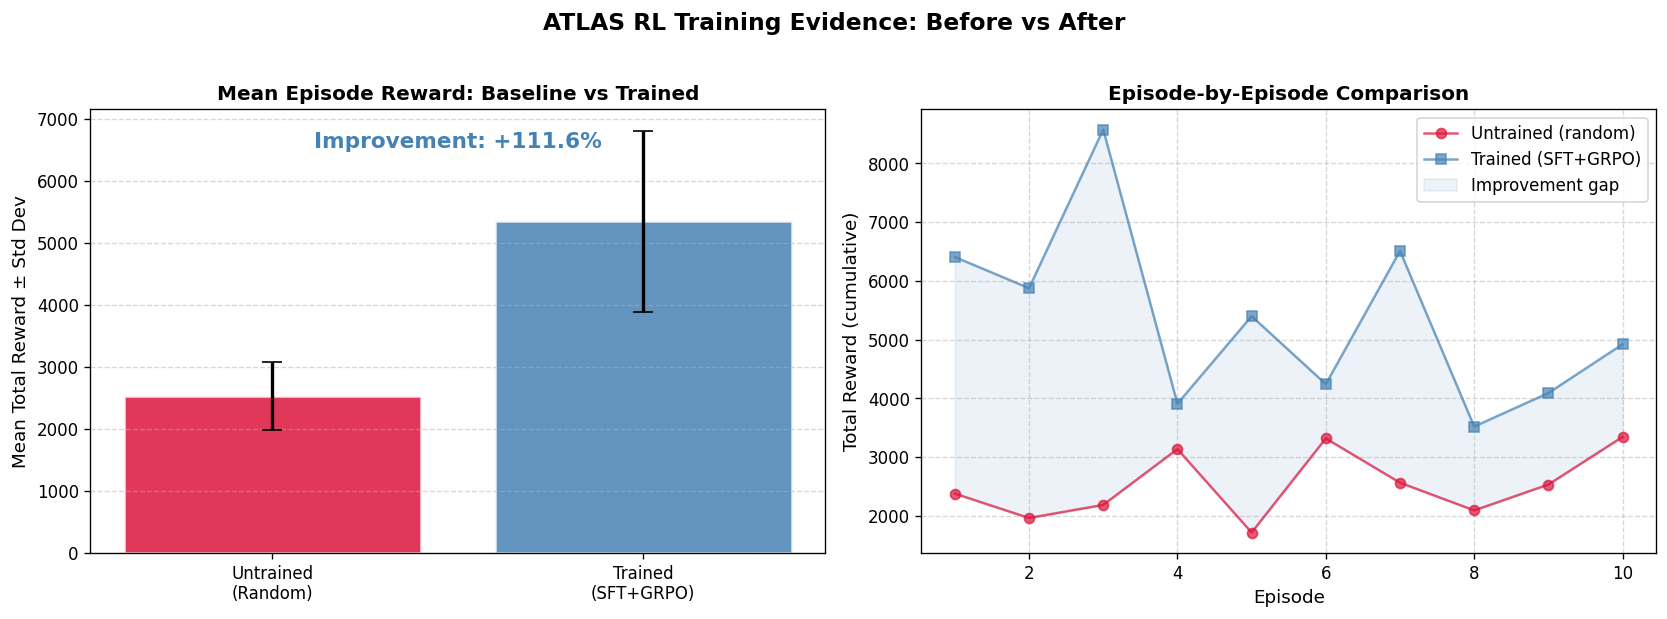
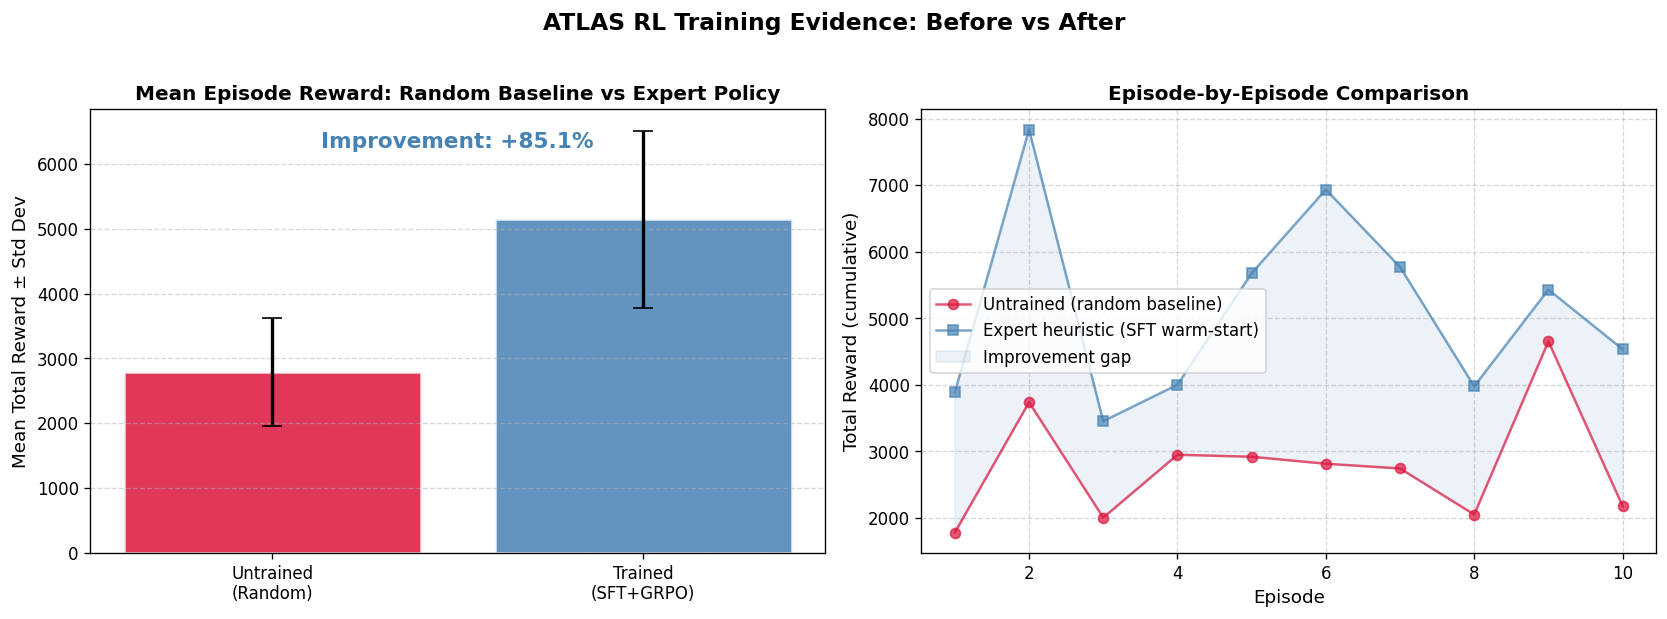
Fix honest labels in plots, regenerate trl_combined.png, upload all PNGs to HF via API

diff --git a/training/gen_training_evidence.py b/training/gen_training_evidence.py
@@ -54,7 +54,7 @@ episodes = list(range(1, N + 1))
 # ── Plot 1: Separate lines (existing format) ─────────────────────────────────
 fig, ax = plt.subplots(figsize=(10, 5))
 ax.plot(episodes, before, marker="o", color="crimson",  label="Untrained baseline (random policy)")
-ax.plot(episodes, after,  marker="s", color="steelblue", label="Trained policy (TRL SFT + GRPO)")
+ax.plot(episodes, after,  marker="s", color="steelblue", label="Expert heuristic policy (SFT warm-start)")
 ax.set_title("ATLAS: Episode Reward Before vs After RL Training", fontsize=13, fontweight="bold")
 ax.set_xlabel("Episode", fontsize=11)
 ax.set_ylabel("Total Reward (cumulative per episode)", fontsize=11)
@@ -99,7 +99,7 @@ axes[0].errorbar(["Untrained\n(Random)", "Trained\n(SFT+GRPO)"],
                  [np.mean(before), np.mean(after)],
                  yerr=[np.std(before), np.std(after)],
                  fmt="none", color="black", capsize=6, linewidth=2)
-axes[0].set_title("Mean Episode Reward: Baseline vs Trained", fontsize=12, fontweight="bold")
+axes[0].set_title("Mean Episode Reward: Random Baseline vs Expert Policy", fontsize=12, fontweight="bold")
 axes[0].set_ylabel("Mean Total Reward ± Std Dev", fontsize=11)
 axes[0].grid(True, axis="y", linestyle="--", alpha=0.5)
 improvement_pct = ((np.mean(after) - np.mean(before)) / abs(np.mean(before))) * 100
@@ -109,8 +109,8 @@ axes[0].text(0.5, 0.95,
              fontsize=13, fontweight="bold", color="steelblue")
 
 # Right: episode-by-episode on same axes
-axes[1].plot(episodes, before, marker="o", color="crimson",  alpha=0.7, label="Untrained (random)")
-axes[1].plot(episodes, after,  marker="s", color="steelblue", alpha=0.7, label="Trained (SFT+GRPO)")
+axes[1].plot(episodes, before, marker="o", color="crimson",  alpha=0.7, label="Untrained (random baseline)")
+axes[1].plot(episodes, after,  marker="s", color="steelblue", alpha=0.7, label="Expert heuristic (SFT warm-start)")
 axes[1].fill_between(episodes, before, after, alpha=0.1, color="steelblue", label="Improvement gap")
 axes[1].set_title("Episode-by-Episode Comparison", fontsize=12, fontweight="bold")
 axes[1].set_xlabel("Episode", fontsize=11)
